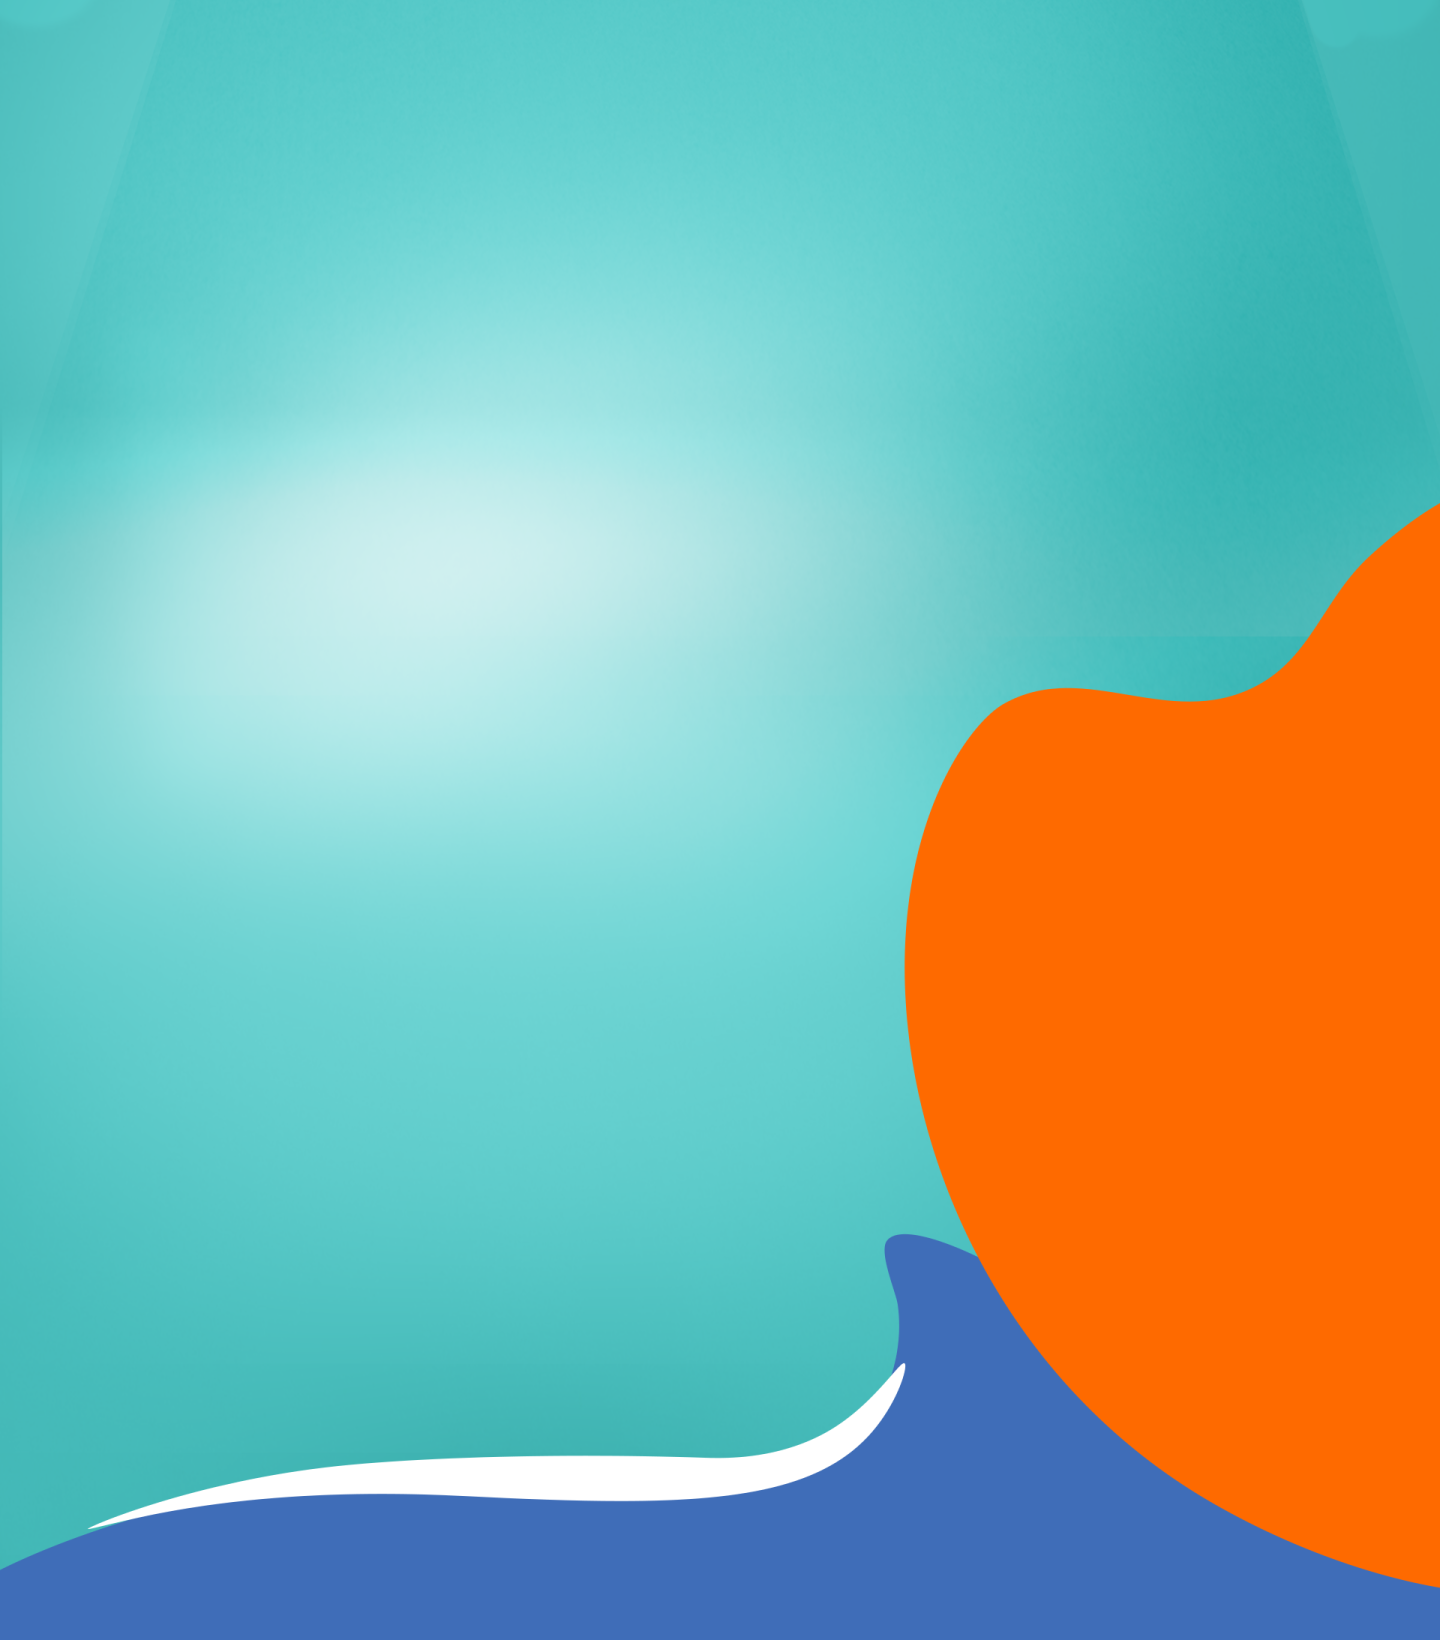
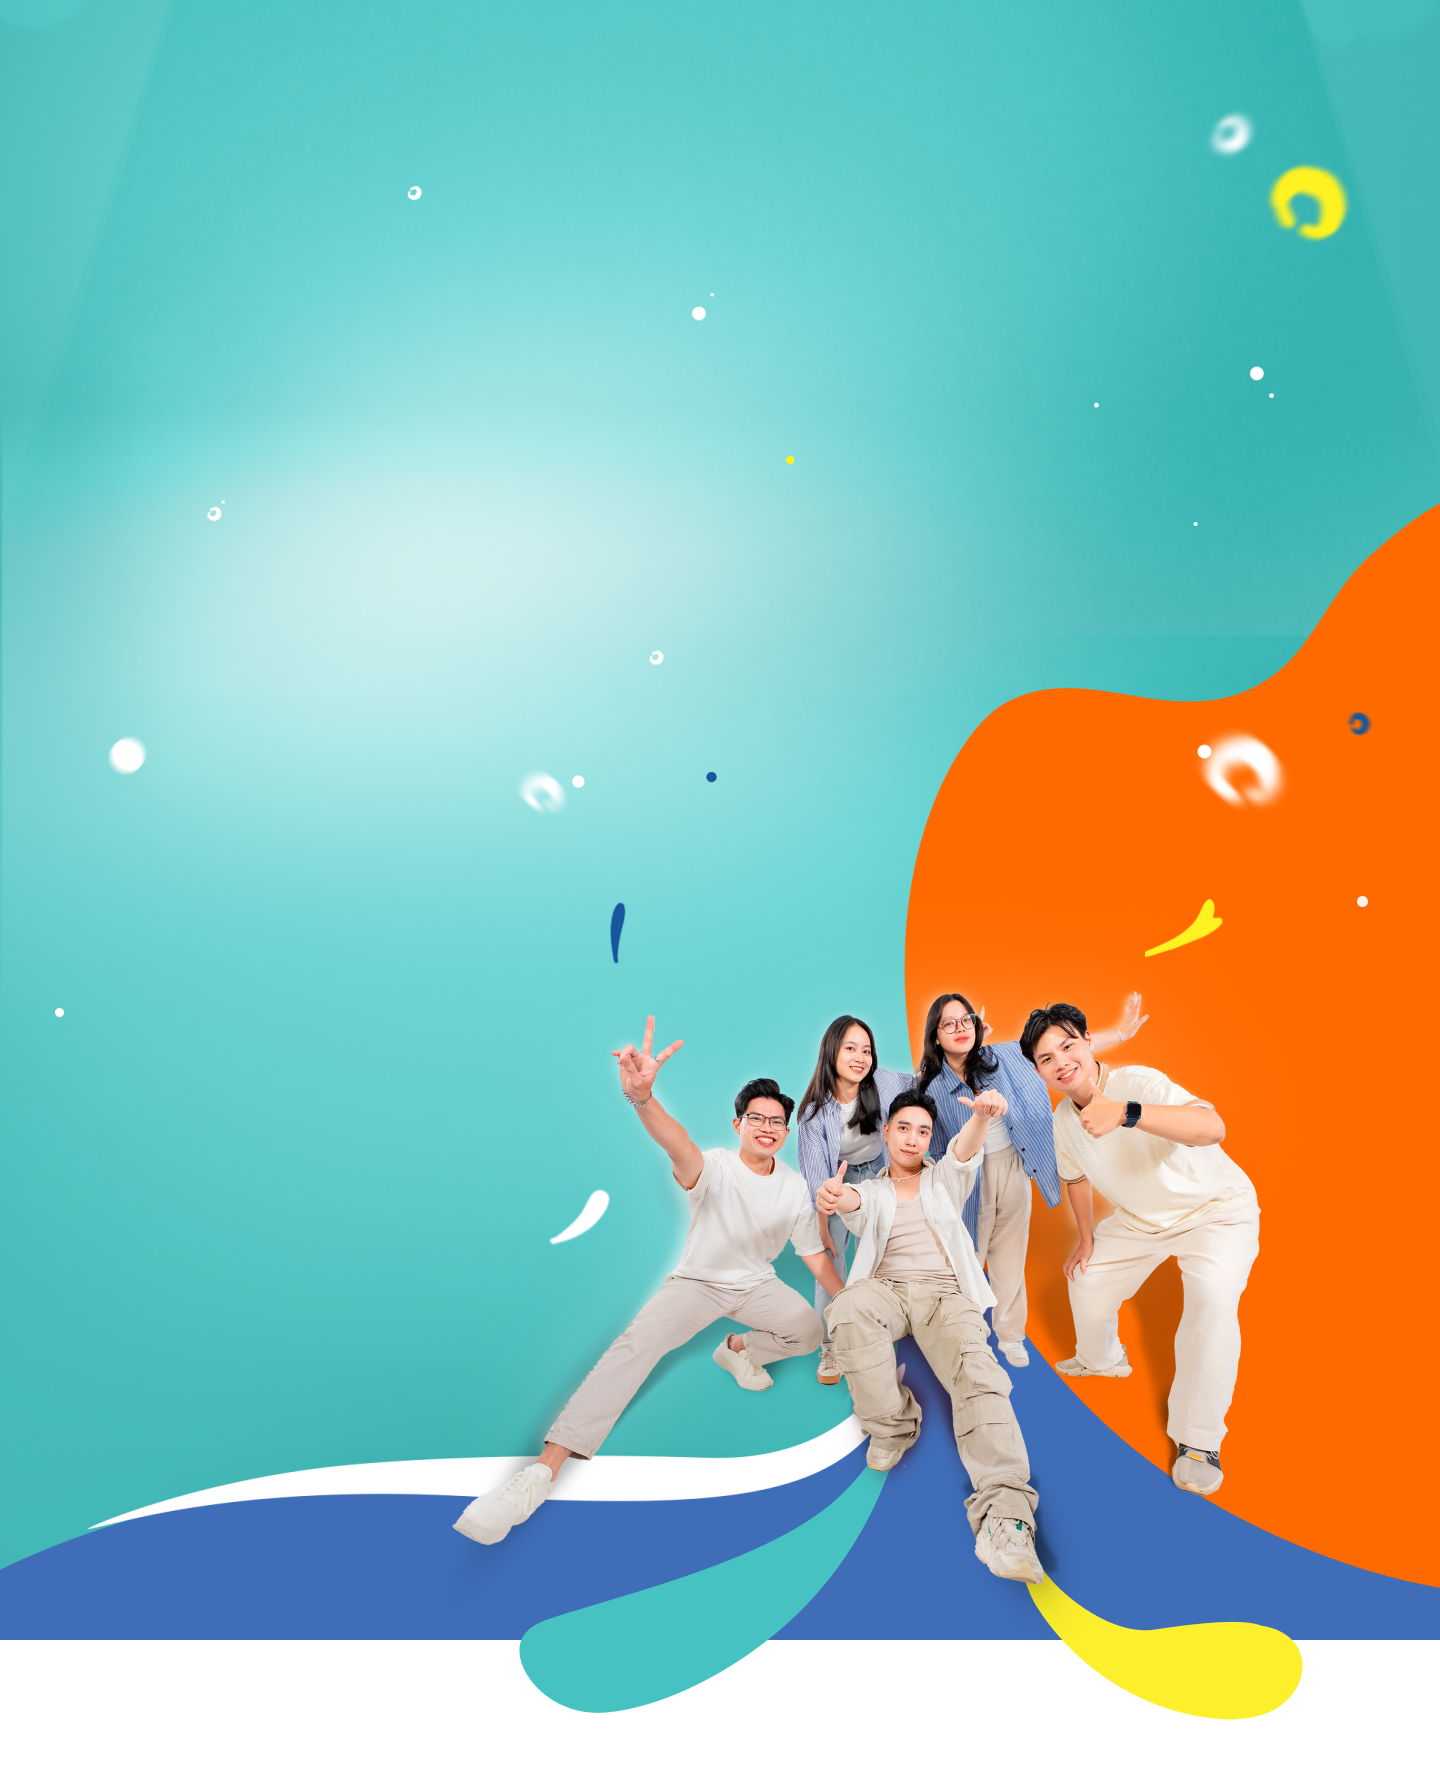
Adjust background

diff --git a/lib/presentation/landing/page.dart b/lib/presentation/landing/page.dart
@@ -125,13 +125,13 @@ class _LandingPageState extends State<LandingPage> {
                 children: [
                   Container(
                     color: const Color(0xFF3f6db8),
-                    height: 1602.w,
+                    height: 1700.w,
                     width: 1400.w,
                     child: Stack(
                       fit: StackFit.expand,
                       children: [
                         Assets.images.landingPageBackground.image(
-                          height: 1600.w,
+                          height: 1700.w,
                           width: 1400.w,
                           fit: BoxFit.fill,
                         ),
@@ -143,21 +143,13 @@ class _LandingPageState extends State<LandingPage> {
                             child: Assets.images.about.background.image(),
                           ),
                         ),
-                        Positioned(
-                          bottom: 120.w,
-                          right: 90.w,
-                          child: Assets.images.about.model.image(
-                            width: 800.w,
-                            fit: BoxFit.fitWidth,
-                          ),
-                        ),
                       ],
                     ),
                   ),
                   Container(
                     width: 1400.w,
                     color: const Color(0xFF3f6db8),
-                    height: 1400.w * 1.5 < 900.h ? 1800.w : 900.w,
+                    height: 1400.w * 1.5 < 900.h ? 1700.w : 800.w,
                     child: Stack(
                       fit: StackFit.expand,
                       alignment: Alignment.bottomCenter,
@@ -169,10 +161,10 @@ class _LandingPageState extends State<LandingPage> {
                           right: 0,
                           child: Container(
                             color: const Color(0xFF3f6db8),
-                            height: 1400.w * 1.5 < 900.h ? 1700.w : 800.w,
+                            height: 1400.w * 1.5 < 900.h ? 1600.w : 700.w,
                             width: double.infinity,
                             child: Assets.images.essence.background.image(
-                              height: 1400.w * 1.5 < 900.h ? 1700.w : 800.w,
+                              height: 1400.w * 1.5 < 900.h ? 1600.w : 700.w,
                               width: double.infinity,
                               fit: BoxFit.fill,
                             ),
@@ -180,7 +172,7 @@ class _LandingPageState extends State<LandingPage> {
                         ),
                         Positioned(
                           left: 300.w,
-                          top: 1400.w * 1.5 < 900.h ? 1000.w : 200.w,
+                          top: 1400.w * 1.5 < 900.h ? 900.w : 100.w,
                           child: Assets.images.essence.model.image(
                             width: 600.w,
                           ),
@@ -221,7 +213,7 @@ class _LandingPageState extends State<LandingPage> {
                         Positioned(
                           left: 300.w,
                           right: 300.w,
-                          top: 80.w,
+                          top: 0.w,
                           child: Column(
                             mainAxisSize: MainAxisSize.min,
                             children: [
@@ -320,8 +312,7 @@ class _LandingPageState extends State<LandingPage> {
                   Builder(
                     builder: (context) {
                       if (footerKey.currentContext != null) {
-                        final box = footerKey.currentContext!.findRenderObject()
-                            as RenderBox;
+                        final box = footerKey.currentContext!.findRenderObject() as RenderBox;
                         return SizedBox(
                           width: 1400.w,
                           height: box.size.height,

diff --git a/web/index.html b/web/index.html
@@ -29,7 +29,7 @@
   <!-- Favicon -->
   <link rel="icon" type="image/png" href="favicon.png"/>
 
-  <title>Coke Info Lead</title>
+  <title>Coke Fresh 2024</title>
   <link rel="manifest" href="manifest.json">
 
   <script>
